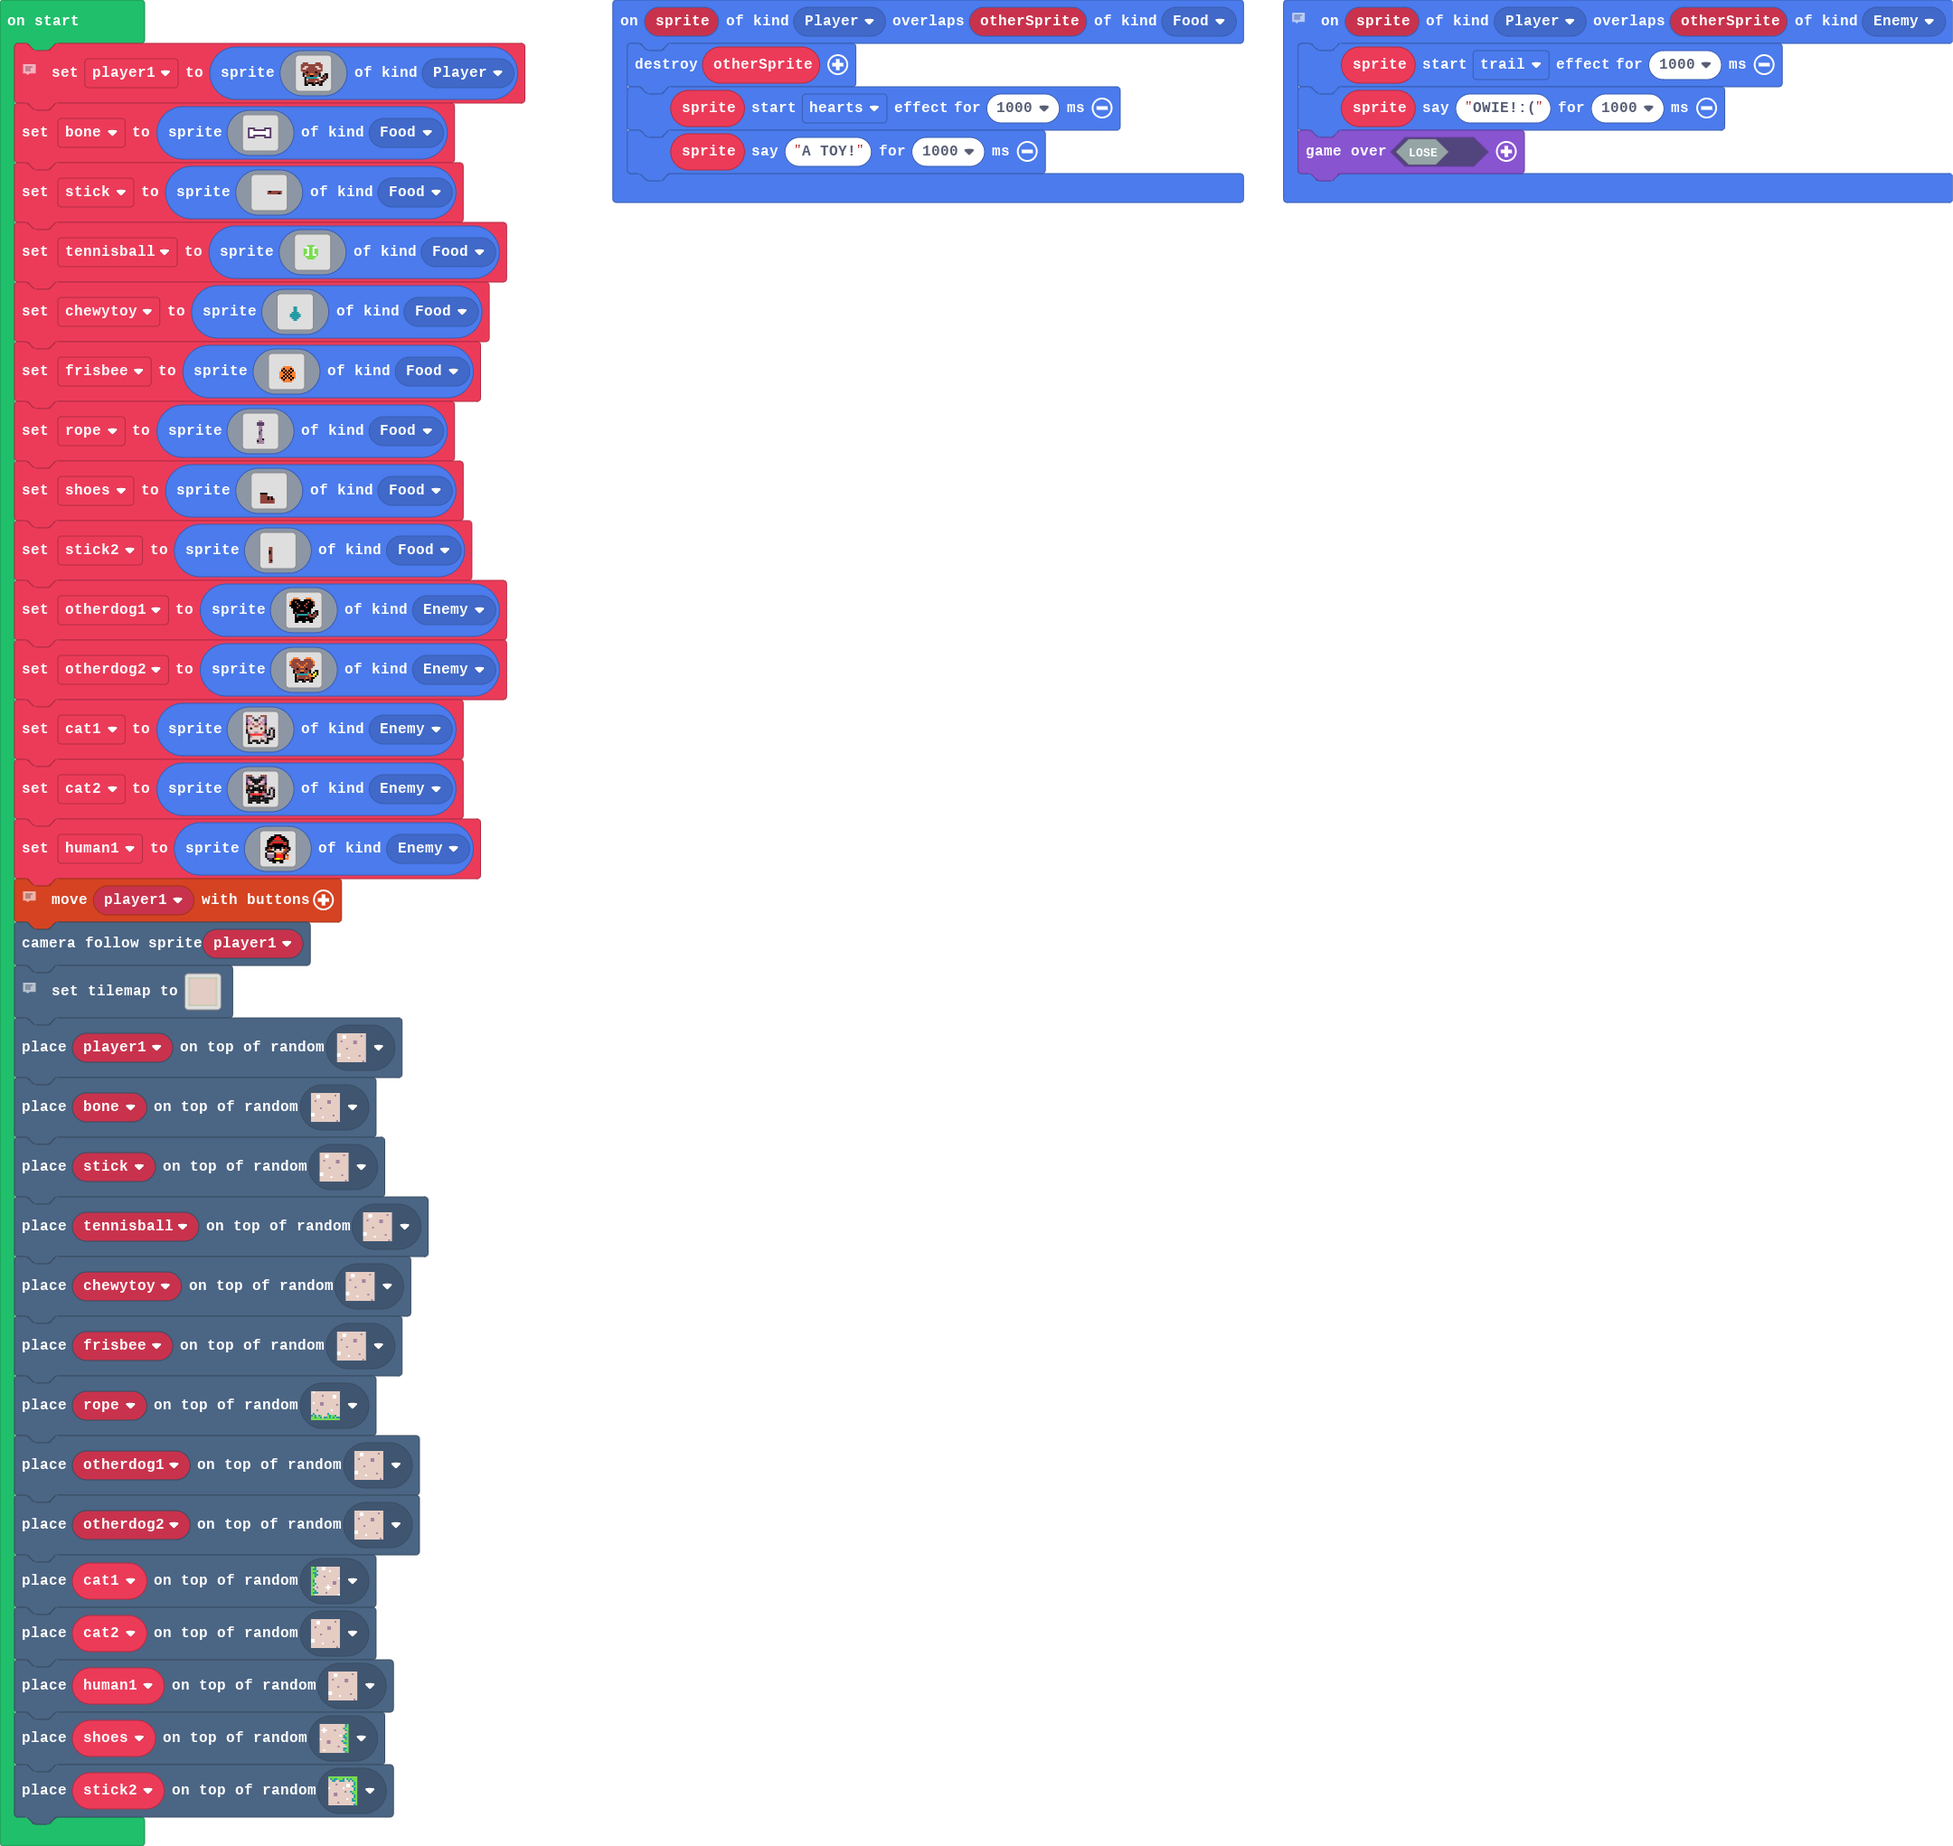
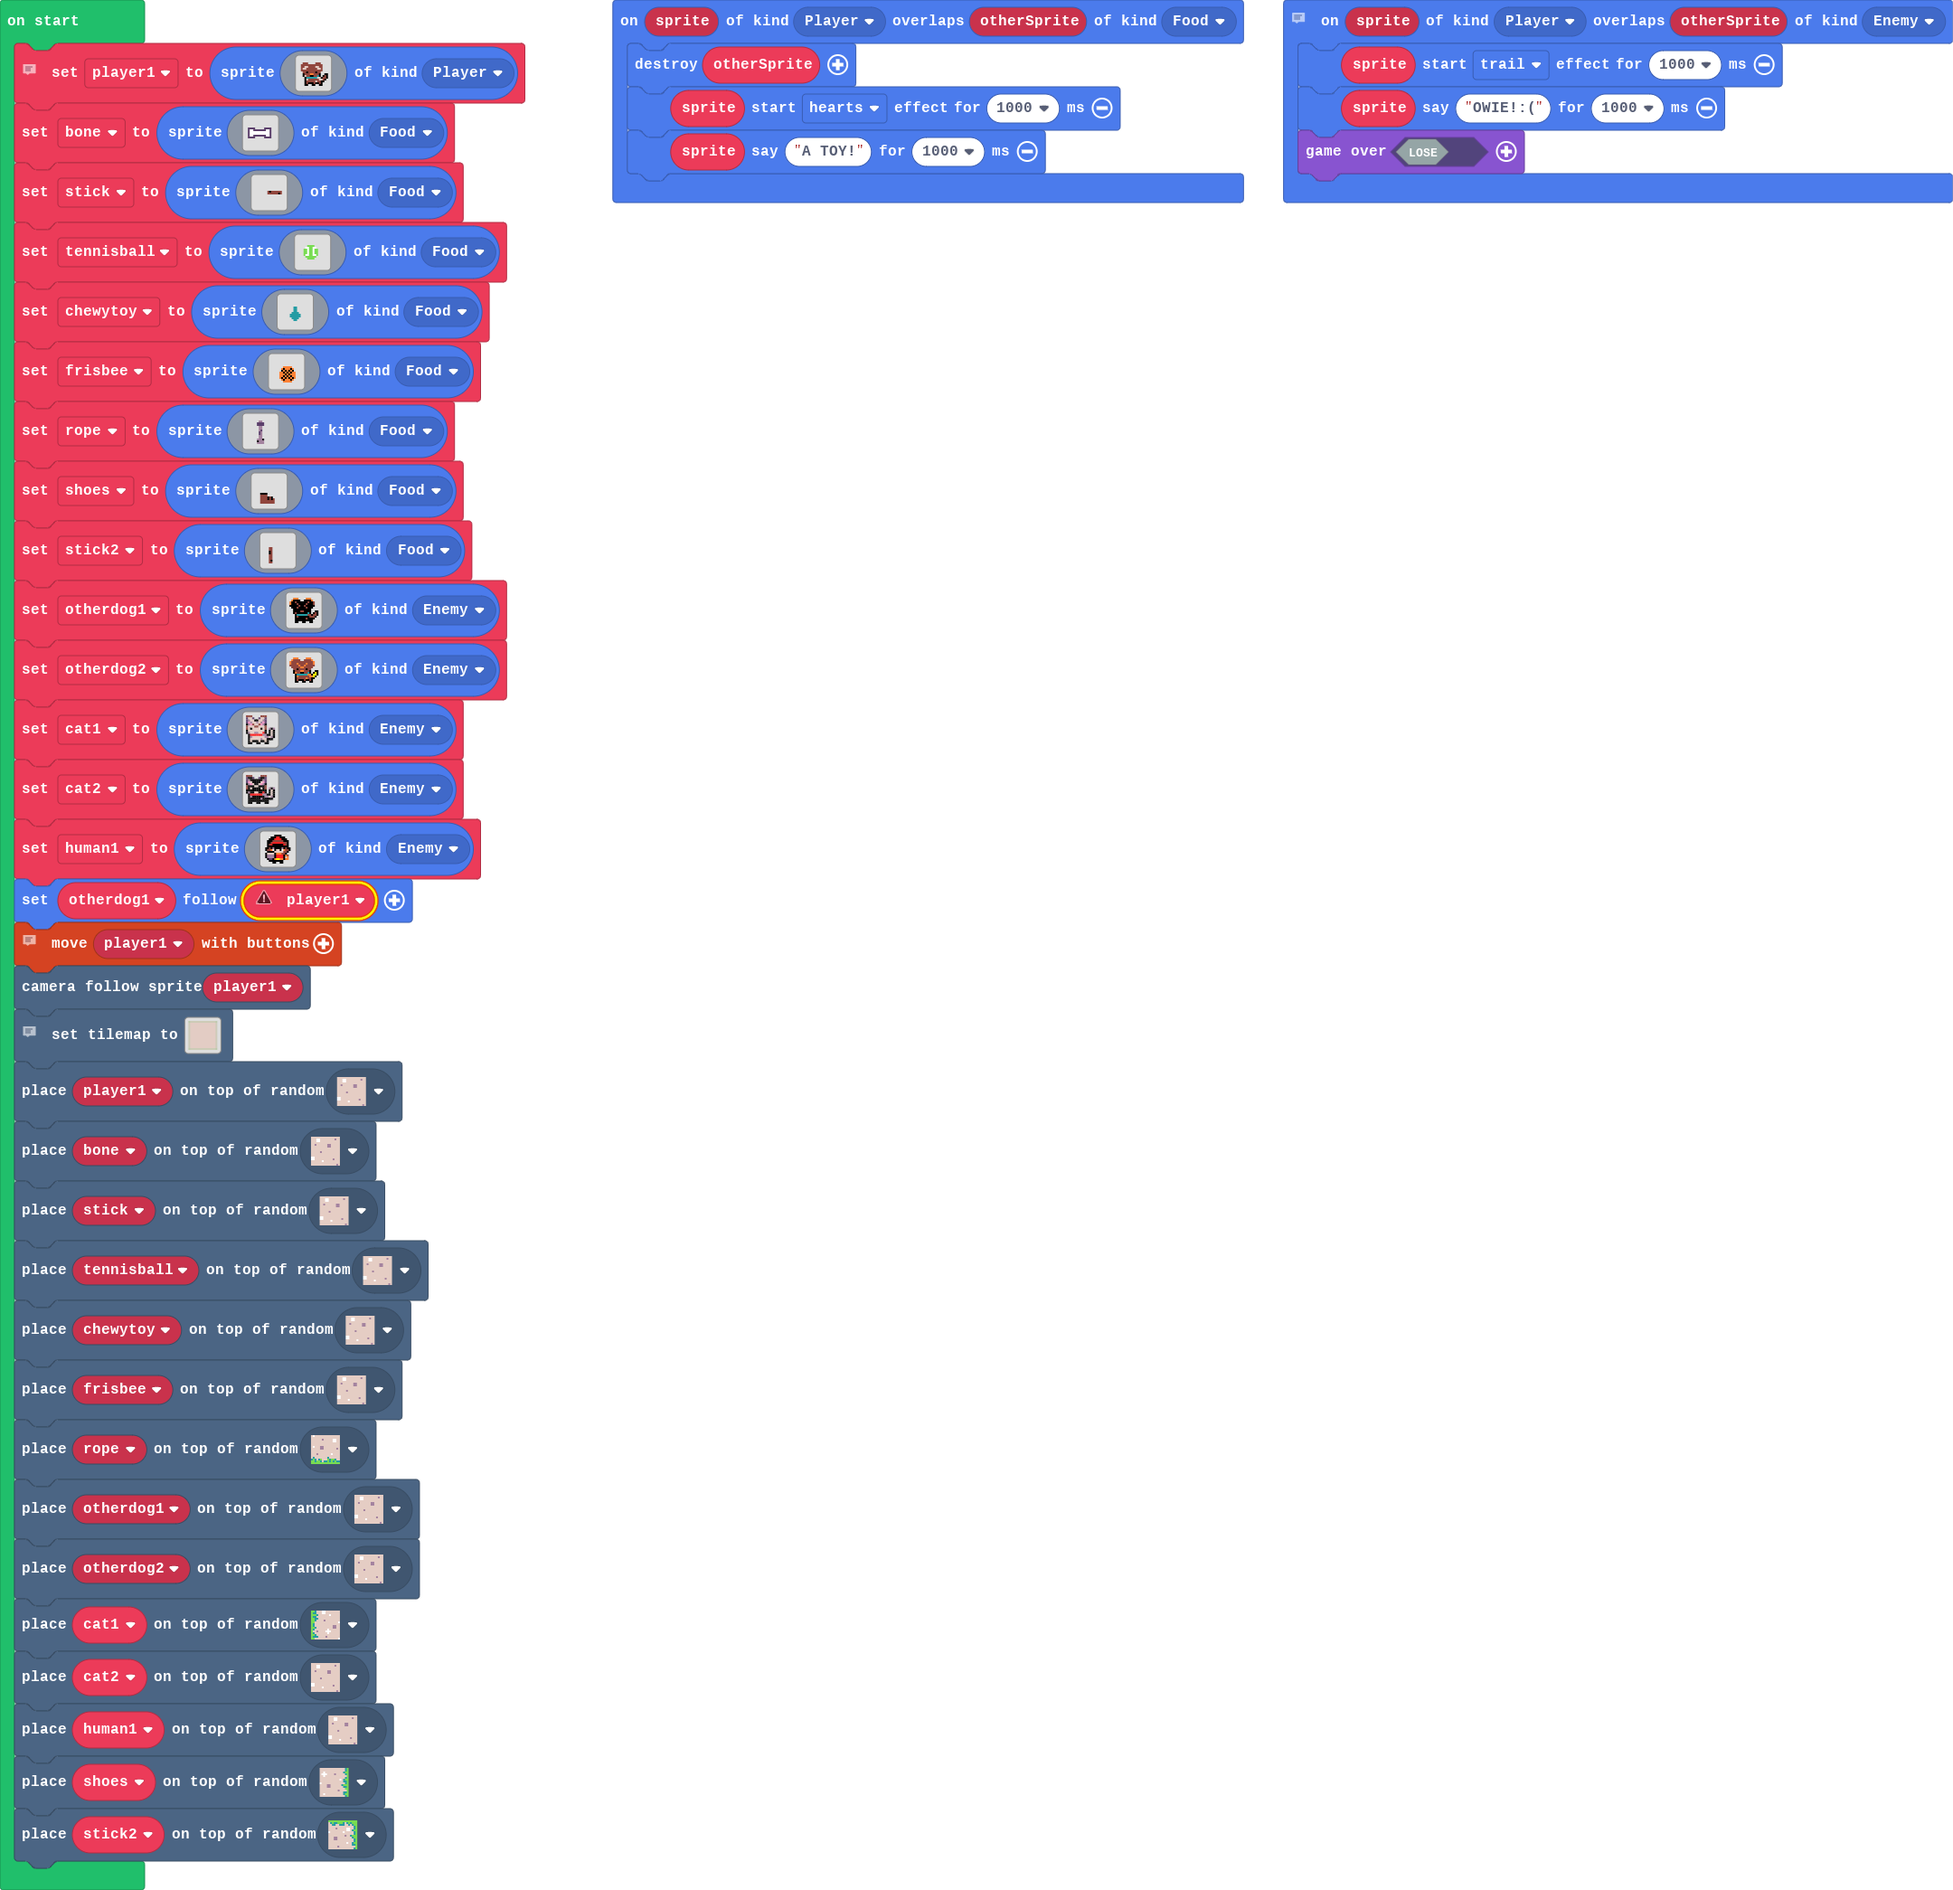
follow sprite

diff --git a/main.ts b/main.ts
@@ -1,20 +1,14 @@
-
- //score
- info.player1.setScore(0)
-//overlap
 sprites.onOverlap(SpriteKind.Player, SpriteKind.Food, function (sprite, otherSprite) {
     otherSprite.destroy()
     sprite.startEffect(effects.hearts, 1000)
     sprite.say("A TOY!", 1000)
-    info.changeScoreBy(+1)
 })
-
+// Overlap
 sprites.onOverlap(SpriteKind.Player, SpriteKind.Enemy, function (sprite, otherSprite) {
     sprite.startEffect(effects.trail, 1000)
     sprite.say("OWIE!:(", 1000)
     game.over(false)
 })
-//Win game
 // Create Sprite
 let player1 = sprites.create(img`
     . . . . . . . . . . . . . . . . 
@@ -258,31 +252,12 @@ let human1 = sprites.create(img`
     . . . f f f f f f f f . . . . . 
     . . . . . f f . . f f . . . . . 
     `, SpriteKind.Enemy)
-let human2 = sprites.create(img`
-    . . . . . . . f f . . . . . . .
-    . . . . . f f 3 3 f f . . . . .
-    . . . . f 3 3 3 3 3 3 f . . . .
-    . . . f e 3 3 3 3 3 3 3 f . . .
-    . . f b 3 3 3 3 3 3 3 3 b f . .
-    . f e 3 3 3 3 3 3 3 3 3 3 e f .
-    . f 3 3 e b 3 e e 3 b e 3 3 f .
-    . f b 3 f f e e e e f f 3 b f .
-    f f b b f b f e e f b f b b f f
-    f b b b e 1 f 4 4 f 1 e b b b f
-    . f b b e e 4 4 4 4 4 f b b f .
-    . . f 4 4 4 e d d d b f e f . .
-    . . f e 4 4 e d d d d c 4 e . .
-    . . . f e e d d b d b b f e . .
-    . . . f f 1 d 1 d 1 1 f f . . .
-    . . . . . f f f b b f . . . . .
-`, SpriteKind.Enemy)
-//follow player
-otherdog1.follow(player1, 20)
-otherdog2.follow(player1, 20)
-cat1.follow(player1, 20)
-cat2.follow(player1, 20)
-human1.follow(player1, 20)
-human2.follow(player1, 20)
+//follow sprite
+otherdog1.follow(player1, 15)
+otherdog2.follow(player1, 15)
+cat1.follow(player1, 15)
+cat2.follow(player1, 15)
+human1.follow(player1, 15)
 // Controller
 controller.moveSprite(player1)
 scene.cameraFollowSprite(player1)
